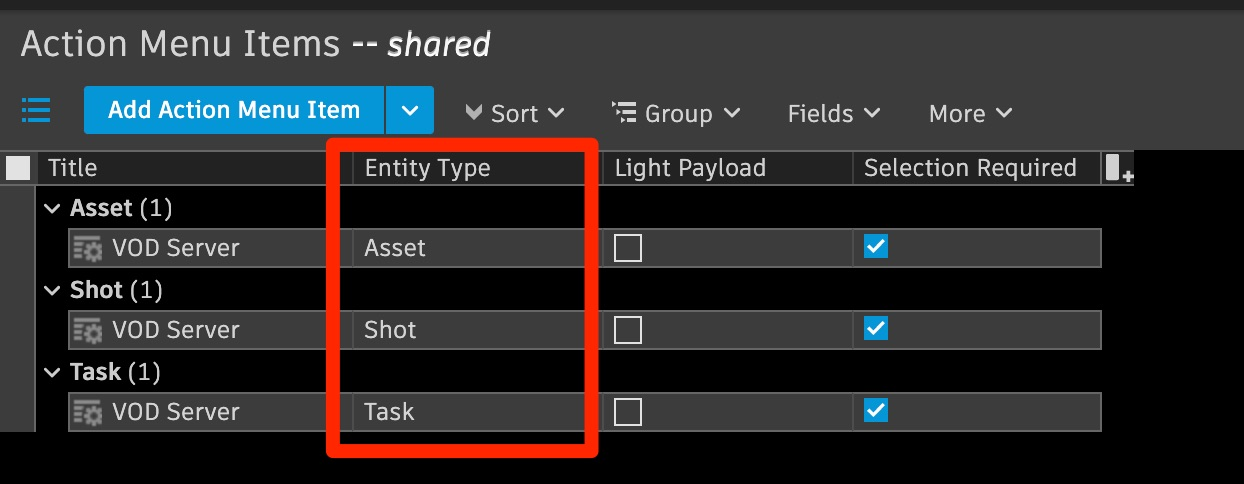
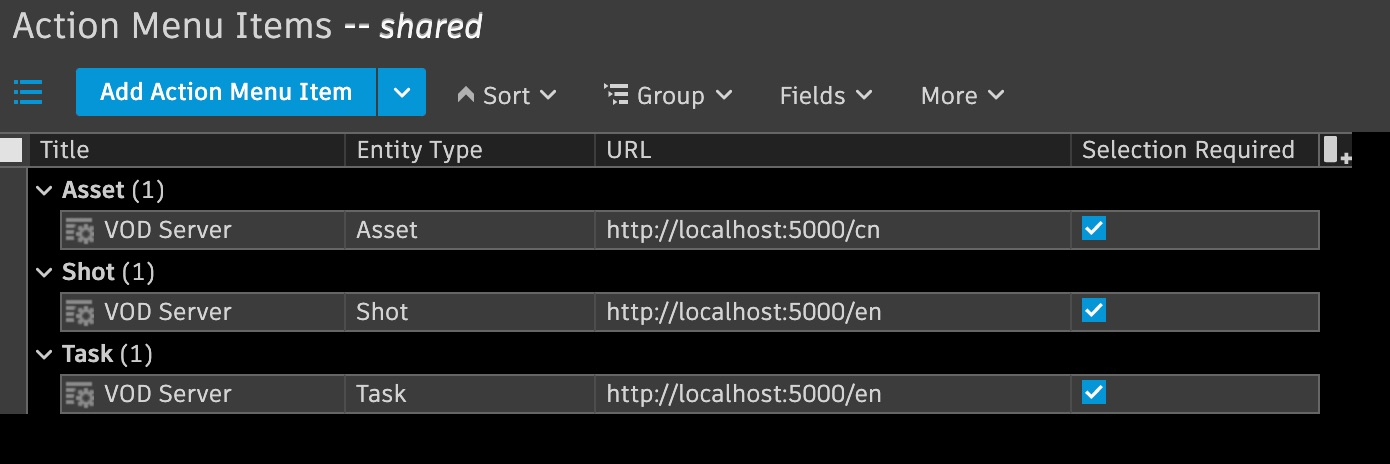
add language

Changed region(s): [[0.0, 0.0, 1.0, 0.9655]]

diff --git a/www/app.py b/www/app.py
@@ -42,8 +42,6 @@ with open(r'./i18n.yml') as file:
     i18n = yaml.load(file, Loader=yaml.FullLoader)
     print("i18n: ",i18n, flush=True)
 
-
-ui = i18n[i18n["default"]]
 ################################################################################
 ################      Shotgun setup and endpoints    ###########################
 ################################################################################
@@ -63,13 +61,14 @@ config['ffmpeg_thumbnail'] = configure['ffmpeg']['thumbnail']
 ################################################################################
 ################            Flask Route              ###########################
 ################################################################################
-@app.route("/", methods = ['GET', 'POST'])
-def home():
+@app.route("/<language>", methods = ['GET', 'POST'])
+def home(language):
     '''
     Show introduction
     '''
     if request.method == 'POST':
         print("request form: ", request.form, flush = True)
+        ui = i18n[language]
         data = {}
         data['entity_type'] = request.form.get('entity_type', None)
         data['entity_id'] = request.form.get('selected_ids', None)

diff --git a/README.md b/README.md
@@ -62,11 +62,11 @@ docker-vod-server/www/data/hls
 
 ## Change default language
 
-Edit docker-vod-server/www/i18n.yml
+Edit AMI URL
 
-en: English
+English: http://localhost:5000/en
 
-cn: 中文
+中文: http://localhost:5000/cn
 
 ## Attention
 
